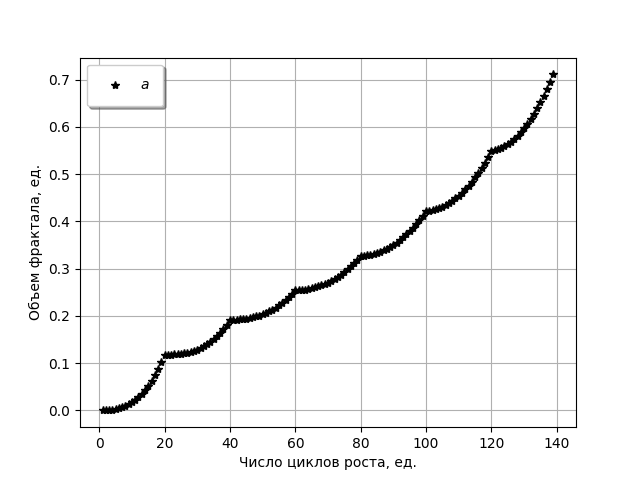
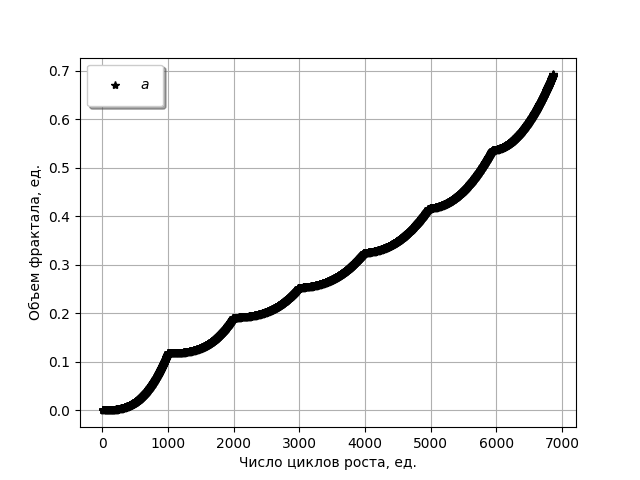
update graphics

diff --git a/visualization/visualizer.py b/visualization/visualizer.py
@@ -3,14 +3,14 @@ from ursina import Ursina, camera, window, Light, color, scene, Entity, held_key
 from calculations.classic_one_phase import calculate as classic_one_phase_calc
 from calculations.one_phase import calculate as one_phase_calc
 from calculations.several_phases import calculate as several_phase_calc
-# from calculations.stochasticity import calculate as stochastic_calc
+from calculations.stochasticity import calculate as stochastic_calc
 from visualization.entity import Builder
 
 MAX_DEPTH = 7
 LIMIT_VALUE = 2.0
 
 # ONE PHASE CONSTANTS
-ITER_COUNT = 20
+ITER_COUNT = 1000
 
 # SEVERAL PHASES CONSTANTS
 ITER_TETRAHEDRON_COUNT = 30
@@ -30,10 +30,10 @@ class Game(Ursina):
         Light(type='ambient', color=(0.5, 0.5, 0.5, 1))
         Light(type='directional', color=(0.5, 0.5, 0.5, 1), direction=(1, 1, 1))
 
-        self.fractal = Builder(classic_one_phase_calc(ITER_COUNT, LIMIT_VALUE, MAX_DEPTH, only_for_metrics=False))
-        # self.fractal = Builder(one_phase_calc(ITER_COUNT, LIMIT_VALUE, MAX_DEPTH, only_for_metrics=False))
+        # self.fractal = Builder(classic_one_phase_calc(ITER_COUNT, LIMIT_VALUE, MAX_DEPTH, only_for_metrics=True))
+        # self.fractal = Builder(one_phase_calc(ITER_COUNT, LIMIT_VALUE, MAX_DEPTH, only_for_metrics=True))
         # self.fractal = Builder(several_phase_calc(ITER_COUNT, LIMIT_VALUE, MAX_DEPTH, only_for_metrics=True))
-        # self.fractal = Builder(stochastic_calc(ITER_COUNT, LIMIT_VALUE, MAX_DEPTH))
+        self.fractal = Builder(stochastic_calc(ITER_COUNT, LIMIT_VALUE, MAX_DEPTH, only_for_metrics=True))
         self.state = 0
 
         EditorCamera()
